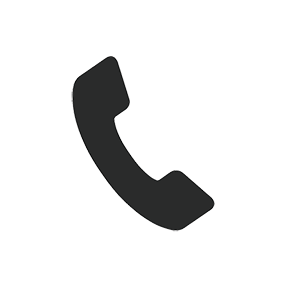
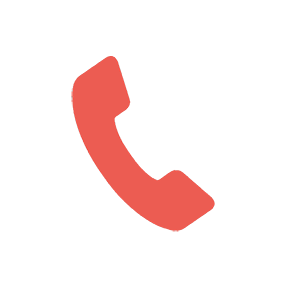
Migrate welcome section

Changed region(s): [[0.2544, 0.1979, 0.7633, 0.8198]]

diff --git a/src/components/WelcomeSection.vue b/src/components/WelcomeSection.vue
@@ -1,154 +1,34 @@
 <template>
-  <section>
-    <header class="welcome">
-      <div class="welcome-body">
-        <div class="container">
-          <div class="row">
-            <div class="col-md-10 col-md-offset-1">
-              <h1 class="brand-heading">
-                SURGERY<span class="friction">,</span> FOR
-                <span class="text-primary">SPACES.</span>
-              </h1>
+  <section
+    class="hero bg-cover bg-center bg-no-repeat text-base-100 h-auto md:min-h-screen py-10 pt-20"
+    style="background-image: url('/images/welcome-section-bg.jpg')"
+  >
+    <div class="hero-content text-center h-full">
+      <div class="max-w-2xl flex flex-col items-center h-full">
+        <div class="flex-1" />
 
-              <p class="welcome-text">
-                Combining quality, price, and friendly customer service, we offer one of
-                the best property improvement services in Melbourne. Read our
-                testimonials, and get in touch with us for a free quote today.
-              </p>
-            </div>
-          </div>
-        </div>
-      </div>
-    </header>
+        <h1 class="text-4xl md:text-6xl font-bold">
+          SURGERY, FOR <span class="text-primary">SPACES</span>.
+        </h1>
 
-    <div class="phone_body text-center">
-      <div class="container">
-        <div class="row">
-          <div class="col-md-12">
-            <a href="tel:%200422%20782%20198">
-              <i>
-                <img class="static" src="/images/social/phone.png" />
-                <img class="rollover" src="/images/social/phone-hover.png" />
-              </i>
-              0422 782 198
-            </a>
-          </div>
-        </div>
+        <p class="text-lg py-8 flex-1">
+          Combining quality, price, and friendly customer service, we offer one of the
+          best property improvement services in Melbourne. Read our testimonials, and get
+          in touch with us for a free quote today.
+        </p>
+
+        <a href="tel:0422782198" class="group inline-flex items-center gap-3">
+          <img
+            src="/images/social/phone.png"
+            class="size-7 md:size-8 grayscale group-hover:grayscale-0 transition-all duration-300"
+          />
+          <span
+            class="text-3xl md:text-4xl group-hover:text-primary transition-all duration-300"
+          >
+            0422 782 198
+          </span>
+        </a>
       </div>
     </div>
   </section>
 </template>
-
-<style scoped>
-section {
-  width: 100%;
-  height: auto;
-}
-
-.welcome {
-  display: table;
-  width: 100%;
-  height: auto;
-  padding: 100px 0;
-  text-align: center;
-  color: #fff;
-  background: url(/images/welcome-section-bg.jpg) top center no-repeat #000;
-  -webkit-background-size: cover;
-  -moz-background-size: cover;
-  background-size: cover;
-  -o-background-size: cover;
-}
-.welcome-body {
-  display: table-cell;
-  vertical-align: middle;
-}
-.welcome-body .brand-heading {
-  font-size: 42px;
-  margin-bottom: 25px;
-}
-.welcome-body .welcome-text {
-  font-size: 18px;
-}
-
-.phone_body {
-  margin-top: -80px;
-}
-.phone_body a {
-  color: #ffffff;
-  font-size: 40px;
-  vertical-align: top;
-  line-height: 33px;
-  -webkit-transition: all ease 0.5s;
-  -moz-transition: all ease 0.5s;
-  -ms-transition: all ease 0.5s;
-  -o-transition: all ease 0.5s;
-  transition: all ease 0.5s;
-}
-.phone_body a:hover {
-  color: #eb5e54;
-}
-.phone_body a:hover i {
-  color: #eb5e54;
-}
-.phone_body a img {
-  width: 33px;
-  margin-right: 7px;
-}
-.phone_body a img.static {
-  opacity: 1;
-  position: absolute;
-  -webkit-transition: all ease 0.3s;
-  -moz-transition: all ease 0.3s;
-  -ms-transition: all ease 0.3s;
-  -o-transition: all ease 0.3s;
-  transition: all ease 0.3s;
-}
-.phone_body a img.rollover {
-  opacity: 0;
-  margin-top: -8px;
-  -webkit-transition: all ease 0.3s;
-  -moz-transition: all ease 0.3s;
-  -ms-transition: all ease 0.3s;
-  -o-transition: all ease 0.3s;
-  transition: all ease 0.3s;
-}
-.phone_body a:hover img.static {
-  opacity: 0;
-}
-.phone_body a:hover img.rollover {
-  opacity: 1;
-}
-
-@media (max-width: 767px) {
-  .phone_body a {
-    font-size: 30px;
-    line-height: 27px;
-  }
-  .phone_body a img {
-    width: 25px !important;
-  }
-}
-
-@media (min-width: 767px) {
-  section,
-  .welcome {
-    height: 100%;
-    padding: 0;
-  }
-  .welcome-body .brand-heading {
-    margin: 0 auto 3px;
-    font-size: 64px;
-    font-weight: 700;
-    text-align: center;
-    text-transform: uppercase;
-    text-shadow: 1px 1px 2px rgba(0, 0, 0, 0.18);
-    letter-spacing: -0.5px;
-  }
-  .welcome-body .welcome-text {
-    font-size: 18px;
-    margin-bottom: 50px;
-    text-align: center;
-    text-shadow: 1px 1px 2px rgba(0, 0, 0, 0.28);
-  }
-}
-</style>
